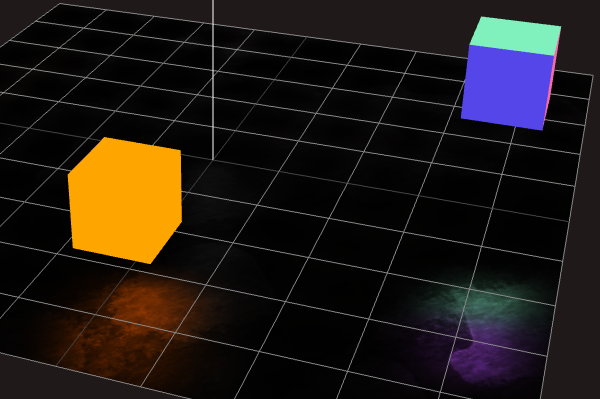
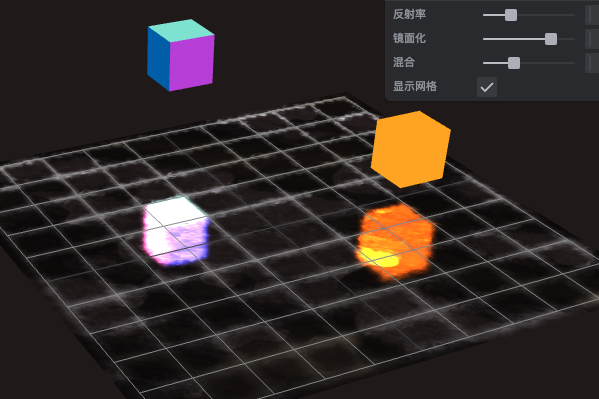
1、升级了依赖库 2、优化了 纹理镜面地板第二效果的代码

diff --git a/src/plugins/floor/components/reflectorShaderMesh.vue b/src/plugins/floor/components/reflectorShaderMesh.vue
@@ -4,18 +4,33 @@
  * @Autor: 地虎降天龙
  * @Date: 2023-12-22 16:05:20
  * @LastEditors: 地虎降天龙
- * @LastEditTime: 2023-12-22 21:27:29
+ * @LastEditTime: 2023-12-23 11:03:26
 -->
 
 <template>
 	<primitive :object="meshOB" />
-	<TresGridHelper :args="[10, 10]" />
+	<primitive :object="gridHelp" />
+	<!-- <TresGridHelper v-if="props.showGridHelper" :args="[9.5, 10]" /> -->
 </template>
 
 <script lang="ts" setup>
-import { Vector2, PlaneGeometry, Mesh, RepeatWrapping, Color } from "three"
+import { Vector2, PlaneGeometry, Mesh, RepeatWrapping, Color, GridHelper } from "three"
 import { useTexture, useTresContext } from '@tresjs/core'
 import { Reflector, ReflectorMaterial } from '../lib/alienJS/all.three.js'
+import { watchEffect, watch } from 'vue'
+const props = withDefaults(defineProps<{
+	reflectivity?: Number // 反射率
+	mirror?: Number	// 去除纹理 镜面化
+	mixStrength?: Number	//混合
+	showGridHelper?: boolean
+	color?: string
+}>(), {
+	reflectivity: 0.2,
+	mirror: 0.1,
+	mixStrength: 9,
+	showGridHelper: true,
+	color: '#ffffff'
+})
 
 const { scene } = useTresContext()
 
@@ -28,15 +43,15 @@ pTexture[1].wrapT = RepeatWrapping
 const reflector = new Reflector()
 
 const material = new ReflectorMaterial({
-	reflectivity: 0.2,	//反射率
-	mirror: 1,
-	mixStrength: 9,
-	// color: new Color('#ffffff'),
+	reflectivity: props.reflectivity,	//反射率
+	mirror: props.mirror,
+	mixStrength: props.mixStrength,
+	color: new Color(props.color),
 	map: pTexture[0],
 	normalMap: pTexture[1],
 	normalScale: new Vector2(5, 5),
 	fog: scene.fog,
-	dithering: false
+	dithering: true
 });
 material.uniforms.tReflect = reflector.renderTargetUniform
 material.uniforms.uMatrix = reflector.textureMatrixUniform
@@ -49,4 +64,27 @@ meshOB.add(reflector)
 meshOB.onBeforeRender = (rendererSelf, sceneSelf, cameraSelf) => {
 	reflector.update(rendererSelf, sceneSelf, cameraSelf)
 };
+
+const gridHelp = new GridHelper(9.5, 10)
+watchEffect(() => {
+	if (props.reflectivity) {
+		material.uniforms.uReflectivity.value = props.reflectivity
+	}
+	if (props.mirror) {
+		material.uniforms.uMirror.value = props.mirror
+	}
+	if (props.mixStrength) {
+		material.uniforms.uMixStrength.value = props.mixStrength
+	}
+	if (props.color) {
+		material.uniforms.uColor.value = new Color(props.color)
+	}
+})
+watch(
+	() => props.showGridHelper,
+	(newVal) => {
+		gridHelp.visible = newVal
+	}
+)
+
 </script>

diff --git a/src/plugins/floor/pages/reflectorShader.vue b/src/plugins/floor/pages/reflectorShader.vue
@@ -4,7 +4,7 @@
  * @Autor: 地虎降天龙
  * @Date: 2023-12-22 08:09:35
  * @LastEditors: 地虎降天龙
- * @LastEditTime: 2023-12-22 21:27:35
+ * @LastEditTime: 2023-12-23 11:04:50
 -->
 
 <template>
@@ -12,23 +12,55 @@
 		<TresPerspectiveCamera :position="[15, 15, 15]" :fov="45" :near="0.1" :far="10000" :look-at="[0, 0, 0]" />
 		<OrbitControls enableDamping />
 		<TresAmbientLight :intensity="10.0" />
-		<TresDirectionalLight :position="[0, 10, 0]" :intensity="10" v-light-helper color="#ffffff" />
+		<!-- <TresDirectionalLight :position="[0, 10, 0]" :intensity="10" v-light-helper color="#ffffff" /> -->
 		<Box :args="[1, 1, 1]" color="orange" :position="[3, 1, 0]" />
 		<TresMesh :position="[0, 2, -4]">
 			<TresBoxGeometry :args="[1, 1, 1]" />
 			<TresMeshNormalMaterial />
 		</TresMesh>
 		<Suspense>
-			<reflectorShaderMesh />
+			<reflectorShaderMesh v-bind="configState" />
 		</Suspense>
 	</TresCanvas>
 </template>
 
 <script setup lang="ts">
 import { TresCanvas } from '@tresjs/core'
-import { OrbitControls, vLightHelper, Box } from '@tresjs/cientos'
+import { OrbitControls, Box } from '@tresjs/cientos'
 import reflectorShaderMesh from '../components/reflectorShaderMesh.vue'
+import { reactive } from 'vue'
+import { Pane } from 'tweakpane'
 
+const configState = reactive({
+	reflectivity: 0.29,
+	mirror: 1,	// 去除纹理 镜面化 
+	mixStrength: 26,
+	showGridHelper: true,
+	// color: '#ffffff'
+})
 
-
+const paneControl = new Pane({
+	title: '镜面参数',
+	expanded: true,
+})
+// paneControl.addBinding(configState, 'color', { label: '镜面颜色' })
+paneControl.addBinding(configState, 'reflectivity', {
+	label: '反射率',
+	min: 0.01,
+	max: 1.0,
+	step: 0.01,
+})
+paneControl.addBinding(configState, 'mirror', {
+	label: '镜面化',
+	min: 0,
+	max: 1.0,
+	step: 0.01,
+})
+paneControl.addBinding(configState, 'mixStrength', {
+	label: '混合',
+	min: 0,
+	max: 100,
+	step: 1,
+})
+paneControl.addBinding(configState, 'showGridHelper', { label: '显示网格' })
 </script>
